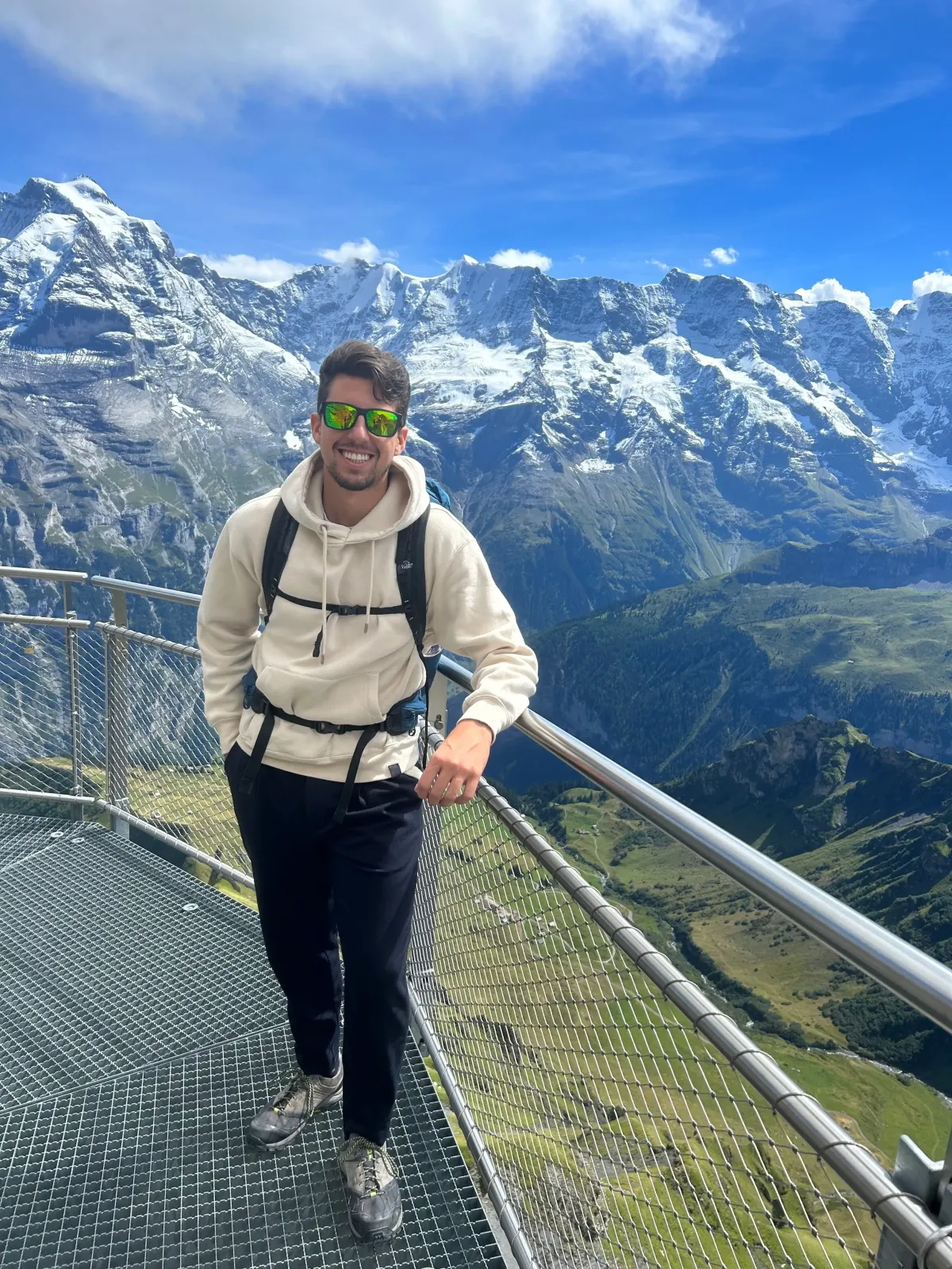
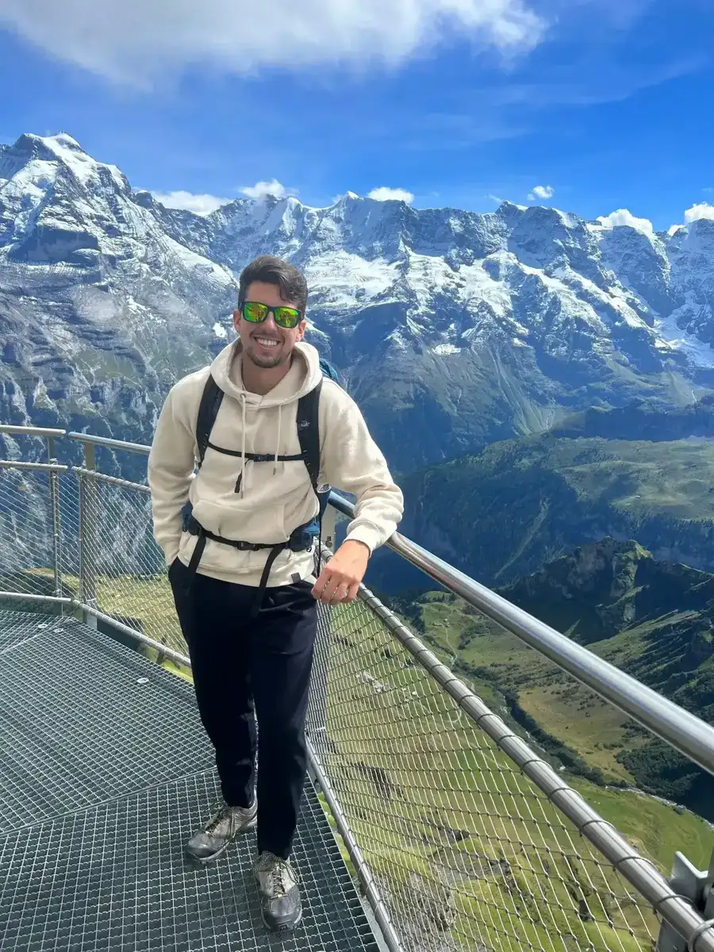
Compress gallery images, add lightbox error handling, expand keywords
Recompress 16 WebP gallery images to q65 (all now under 200KB),
delete 2 orphan duplicates. Add onerror handler for broken lightbox
images with style reset on navigation. Replace niche technical
keywords with recruiter-search job titles (engineering manager,
technical program manager).

diff --git a/assets/js/main.min.js b/assets/js/main.min.js
@@ -1,1 +1,1 @@
-(()=>{function S(){var t=document.querySelector(".nav-toggle"),e=document.querySelector(".site-nav");if(!t||!e)return;t.addEventListener("click",function(){var a=e.classList.toggle("is-open");t.setAttribute("aria-expanded",String(a)),t.classList.toggle("close",a),document.body.classList.toggle("overflow--hidden",a)});function n(){e.classList.remove("is-open"),t.setAttribute("aria-expanded","false"),t.classList.remove("close"),document.body.classList.remove("overflow--hidden")}var o=e.querySelectorAll(".nav-links a");o.forEach(function(a){a.addEventListener("click",n)});var i=window.matchMedia("(min-width: 768px)");i.addEventListener?i.addEventListener("change",function(){i.matches&&n()}):i.addListener&&i.addListener(function(){i.matches&&n()}),document.addEventListener("keydown",function(a){a.key==="Escape"&&e.classList.contains("is-open")&&(n(),t.focus())})}function k(){let t=window.location.pathname;document.querySelectorAll(".nav-links a").forEach(n=>{n.classList.remove("active");let o=new URL(n.href).pathname;(t===o||o!=="/"&&t.startsWith(o))&&n.classList.add("active")})}function x(t){var e=document.getElementById("sr-announcer");e&&(e.textContent=t,setTimeout(function(){e.textContent=""},1e3))}function E(){let t=document.querySelector(".theme-toggle");if(!t)return;let e=i=>{document.querySelectorAll(".theme-img").forEach(a=>{a.src=a.getAttribute("data-"+i)||a.src})},n=i=>{document.documentElement.setAttribute("data-theme",i),localStorage.setItem("theme",i),e(i)};t.addEventListener("click",()=>{let a=document.documentElement.getAttribute("data-theme")==="dark"?"light":"dark";n(a),x(a==="dark"?"Dark mode enabled":"Light mode enabled")}),window.matchMedia("(prefers-color-scheme: dark)").addEventListener("change",i=>{localStorage.getItem("theme")||n(i.matches?"dark":"light")});let o=document.documentElement.getAttribute("data-theme")||"light";e(o)}function T(){let t=document.querySelector(".lang-toggle");if(!t)return;let e=n=>{document.documentElement.setAttribute("data-lang",n),document.documentElement.setAttribute("lang",n),localStorage.setItem("lang",n)};t.addEventListener("click",()=>{let o=document.documentElement.getAttribute("data-lang")==="en"?"es":"en";e(o),x(o==="es"?"Idioma cambiado a espa\xF1ol":"Language changed to English")})}function _(){var t=document.querySelector(".color-toggle"),e=document.querySelector(".color-picker");if(!t||!e)return;function n(s){s=s.replace("#","");var d=parseInt(s.substring(0,2),16),r=parseInt(s.substring(2,4),16),l=parseInt(s.substring(4,6),16);return d+", "+r+", "+l}function o(s,d){var r=document.documentElement;r.style.setProperty("--color-primary",s),r.style.setProperty("--color-accent",d),r.style.setProperty("--color-primary-rgb",n(s)),r.style.setProperty("--color-accent-rgb",n(d)),r.style.setProperty("--gradient-primary","linear-gradient(135deg, "+s+", "+d+")"),r.style.setProperty("--gradient-subtle","linear-gradient(135deg, "+s+"14, "+d+"14)")}function i(){e.classList.add("is-open"),t.setAttribute("aria-expanded","true");var s=e.querySelector('[aria-checked="true"]')||c[0];s&&s.focus()}function a(){e.classList.remove("is-open"),t.setAttribute("aria-expanded","false")}t.addEventListener("click",function(s){s.stopPropagation(),e.classList.contains("is-open")?a():i()}),document.addEventListener("click",function(s){!e.contains(s.target)&&s.target!==t&&a()}),document.addEventListener("keydown",function(s){s.key==="Escape"&&e.classList.contains("is-open")&&(a(),t.focus())});var c=e.querySelectorAll(".color-swatch");function u(s){var d=s.getAttribute("data-primary"),r=s.getAttribute("data-accent");c.forEach(function(l){l.classList.remove("is-active"),l.setAttribute("aria-checked","false"),l.setAttribute("tabindex","-1")}),s.classList.add("is-active"),s.setAttribute("aria-checked","true"),s.setAttribute("tabindex","0"),o(d,r),localStorage.setItem("accent-colors",JSON.stringify({primary:d,accent:r})),x("Accent color changed to "+s.getAttribute("aria-label")),a()}c.forEach(function(s,d){s.addEventListener("click",function(){u(this)}),s.addEventListener("keydown",function(r){var l;if(r.key==="ArrowRight"||r.key==="ArrowDown")r.preventDefault(),l=(d+1)%c.length;else if(r.key==="ArrowLeft"||r.key==="ArrowUp")r.preventDefault(),l=(d-1+c.length)%c.length;else if(r.key==="Enter"||r.key===" "){r.preventDefault(),u(this);return}else return;c[d].setAttribute("tabindex","-1"),c[l].setAttribute("tabindex","0"),c[l].focus()})});var m=localStorage.getItem("accent-colors");if(m)try{var f=JSON.parse(m);o(f.primary,f.accent),c.forEach(function(s){s.getAttribute("data-primary")===f.primary&&s.getAttribute("data-accent")===f.accent&&s.classList.add("is-active")})}catch{}}function A(){var t=document.querySelectorAll('a[href$=".jpg"], a[href$=".jpeg"], a[href$=".JPG"], a[href$=".png"], a[href$=".gif"], a[href$=".webp"]');if(t.length===0)return;var e=0,n=Array.from(t),o=document.querySelector(".image-lightbox");if(!o){o=document.createElement("dialog"),o.className="image-lightbox",o.innerHTML='<button class="lightbox-prev" aria-label="Previous image">&#8249;</button><img src="" alt="Lightbox image"><button class="lightbox-next" aria-label="Next image">&#8250;</button><button class="lightbox-close" aria-label="Close">&times;</button><div class="lightbox-counter"></div>',document.body.appendChild(o);var i=document.createElement("style");i.textContent=".image-lightbox { border: none; padding: 0; background: rgba(0,0,0,0.9); max-width: 95vw; max-height: 95vh; position: relative; }.image-lightbox::backdrop { background: rgba(0,0,0,0.8); }.image-lightbox img { max-width: 90vw; max-height: 90vh; object-fit: contain; display: block; }.image-lightbox .lightbox-close { position: absolute; top: 10px; right: 10px; background: rgba(255,255,255,0.9); border: none; border-radius: 50%; width: 40px; height: 40px; font-size: 24px; cursor: pointer; line-height: 1; }.image-lightbox .lightbox-close:hover { background: #fff; }.image-lightbox .lightbox-prev, .image-lightbox .lightbox-next { position: absolute; top: 50%; transform: translateY(-50%); background: rgba(255,255,255,0.8); border: none; border-radius: 50%; width: 40px; height: 40px; font-size: 28px; cursor: pointer; line-height: 1; display: flex; align-items: center; justify-content: center; transition: background 0.2s; }.image-lightbox .lightbox-prev:hover, .image-lightbox .lightbox-next:hover { background: #fff; }.image-lightbox .lightbox-prev { left: 10px; }.image-lightbox .lightbox-next { right: 10px; }.image-lightbox .lightbox-prev[hidden], .image-lightbox .lightbox-next[hidden] { display: none; }.image-lightbox .lightbox-counter { position: absolute; bottom: 10px; left: 50%; transform: translateX(-50%); color: rgba(255,255,255,0.7); font-size: 0.85rem; }",document.head.appendChild(i),o.querySelector(".lightbox-close").addEventListener("click",function(){o.close()}),o.addEventListener("click",function(r){r.target===o&&o.close()})}var a=o.querySelector("img"),c=o.querySelector(".lightbox-prev"),u=o.querySelector(".lightbox-next"),m=o.querySelector(".lightbox-counter");function f(r){e=r,a.src=n[r].href;var l=n.length>1;c.hidden=!l,u.hidden=!l,m.textContent=l?r+1+" / "+n.length:""}function s(){f((e-1+n.length)%n.length)}function d(){f((e+1)%n.length)}c.addEventListener("click",function(r){r.stopPropagation(),s()}),u.addEventListener("click",function(r){r.stopPropagation(),d()}),o.addEventListener("keydown",function(r){r.key==="ArrowLeft"?(r.preventDefault(),s()):r.key==="ArrowRight"&&(r.preventDefault(),d())}),n.forEach(function(r,l){r.addEventListener("click",function(h){h.preventDefault(),f(l),o.showModal()})})}function q(){if(window.matchMedia("(prefers-reduced-motion: reduce)").matches)return;let t={threshold:.1,rootMargin:"0px 0px -50px 0px"},e=new IntersectionObserver(i=>{i.forEach(a=>{a.isIntersecting&&(a.target.classList.add("is-visible"),e.unobserve(a.target))})},t),n=document.querySelectorAll(".archive__item, .page__content > h2, .page__content > h3, .page__content > p, .page__content > ul, .page__content > ol, .author__urls li, .feature__item, .cert-card, .contact-card, .career-timeline__milestone, .cv-timeline-item, .cv-edu-card, .cv-skill-tag, .github-stats > a"),o=new Map;n.forEach(i=>{if(i.classList.contains("reveal")||i.classList.contains("reveal--left")||i.classList.contains("reveal--right")){e.observe(i);return}var a=i.matches(".cert-card, .contact-card, .career-timeline__milestone, .archive__item, .cv-edu-card, .cv-timeline-item");if(a&&i.parentElement){var c=i.parentElement,u=o.get(c)||0;o.set(c,u+1),i.style.transitionDelay=u*.08+"s",u%2===0?i.classList.add("reveal--left"):i.classList.add("reveal--right")}else if(i.classList.add("reveal"),i.matches(".author__urls li, .cv-skill-tag")){var m=i.parentElement?Array.from(i.parentElement.children):[],f=m.indexOf(i);i.style.transitionDelay=f*.05+"s"}e.observe(i)})}function O(){let t=document.querySelector(".scroll-progress"),e=document.querySelector(".masthead");if(!t)return;let n=!1,o=()=>{let i=window.scrollY,a=document.documentElement.scrollHeight-window.innerHeight,c=a>0?i/a*100:0;t.style.width=`${c}%`,e&&e.classList.toggle("is-scrolled",i>10),n=!1};window.addEventListener("scroll",()=>{n||(requestAnimationFrame(o),n=!0)},{passive:!0}),o()}function C(){var t=document.querySelector(".scroll-to-top");if(t){var e=300,n=!1,o=function(){window.scrollY>e?t.classList.add("is-visible"):t.classList.remove("is-visible"),n=!1};window.addEventListener("scroll",function(){n||(requestAnimationFrame(o),n=!0)},{passive:!0}),t.addEventListener("click",function(){window.scrollTo({top:0,behavior:"smooth"})}),o()}}function I(){var t=document.querySelector(".floating-cta");if(t){var e=600,n=!1,o=!1,i=document.querySelector(".page__footer");if(i){var a=new IntersectionObserver(function(u){o=u[0].isIntersecting,c()},{threshold:.1});a.observe(i)}var c=function(){window.scrollY>e&&window.innerWidth<925&&!o?t.classList.add("is-visible"):t.classList.remove("is-visible"),n=!1};window.addEventListener("scroll",function(){n||(requestAnimationFrame(c),n=!0)},{passive:!0}),window.addEventListener("resize",function(){n||(requestAnimationFrame(c),n=!0)},{passive:!0}),c()}}function P(){let t=document.querySelector(".author__urls-wrapper"),e=document.querySelector(".author__urls"),n=document.querySelector(".author__urls-wrapper button"),o=()=>{if(!e)return;let i=n!==null,a=i&&n.offsetParent!==null;!i||i&&!a?e.style.display="":e.style.display="none"};o(),window.addEventListener("resize",o),n&&e&&n.addEventListener("click",function(){let i=e.style.display==="none"||getComputedStyle(e).display==="none";e.style.display=i?"block":"none",this.classList.toggle("open"),this.setAttribute("aria-expanded",String(i))}),D()}var H=925,g={STICK_TOP:"STICK_TOP",STICK_BOTTOM:"STICK_BOTTOM",FLOAT:"FLOAT"};function D(){let t=document.querySelector(".sidebar.sticky");if(!t)return;let e=document.getElementById("swup-sidebar");if(!e)return;let n=g.STICK_TOP,o=window.scrollY,i=!1,a=0,c=new AbortController,{signal:u}=c;e._stickyAbort&&e._stickyAbort.abort(),e._stickyAbort=c;function m(){let h=document.querySelector(".masthead");return h?h.offsetHeight:0}function f(){return Math.max(t.getBoundingClientRect().height,t.offsetHeight,t.scrollHeight)}function s(){return document.documentElement.clientHeight-f()}function d(){if(i=!1,window.innerWidth<H){t.style.position="",t.style.top="";return}let h=document.documentElement.clientHeight,p=m();if(f()<=h-p){t.style.position="",t.style.top="",n=g.STICK_TOP;return}let b=window.scrollY,w=b>o,y=t.getBoundingClientRect();switch(n){case g.STICK_TOP:w&&(a=y.top-e.getBoundingClientRect().top,t.style.position="relative",t.style.top=a+"px",n=g.FLOAT);break;case g.STICK_BOTTOM:t.style.top=s()+"px",w||(a=y.top-e.getBoundingClientRect().top,t.style.position="relative",t.style.top=a+"px",n=g.FLOAT);break;case g.FLOAT:w?y.bottom<=h&&(t.style.position="sticky",t.style.top=s()+"px",n=g.STICK_BOTTOM):y.top>=p&&(t.style.position="sticky",t.style.top=p+"px",n=g.STICK_TOP);break}o=b}function r(){i||(requestAnimationFrame(d),i=!0)}function l(){n=g.STICK_TOP,t.style.position="",t.style.top="",o=window.scrollY}window.addEventListener("scroll",r,{signal:u,passive:!0}),window.addEventListener("resize",l,{signal:u}),document.fonts.ready.then(()=>{n===g.STICK_BOTTOM&&(t.style.top=s()+"px")})}function M(){var t=document.querySelector(".search-toggle"),e=document.querySelector(".search-overlay");if(!t||!e)return;var n=e.querySelector(".search-overlay__input"),o=e.querySelector(".search-overlay__results"),i=e.querySelector(".search-overlay__close"),a=null;function c(){e.hidden=!1,document.body.classList.add("overflow--hidden"),n.value="",o.innerHTML="",setTimeout(function(){n.focus()},50),m()}function u(){e.hidden=!0,document.body.classList.remove("overflow--hidden"),t.focus()}function m(){a||fetch("/search.json").then(function(r){return r.json()}).then(function(r){a=r}).catch(function(){a=[]})}function f(r){if(!a||!r){o.innerHTML="";return}var l=r.toLowerCase().split(/\s+/).filter(Boolean),h=a.filter(function(p){var v=(p.title+" "+p.excerpt).toLowerCase();return l.every(function(b){return v.indexOf(b)!==-1})});if(h.length===0){o.innerHTML='<div class="search-no-results">No results found.</div>';return}o.innerHTML=h.slice(0,10).map(function(p){var v=p.excerpt||"";return v.length>120&&(v=v.substring(0,120)+"..."),'<a class="search-result" href="'+encodeURI(p.url)+'"><div class="search-result__title">'+s(p.title)+"</div>"+(v?'<div class="search-result__excerpt">'+s(v)+"</div>":"")+"</a>"}).join("")}function s(r){var l=document.createElement("div");return l.textContent=r,l.innerHTML}var d;n.addEventListener("input",function(){clearTimeout(d);var r=n.value.trim();d=setTimeout(function(){f(r)},200)}),t.addEventListener("click",c),i.addEventListener("click",u),e.addEventListener("click",function(r){r.target===e&&u()}),document.addEventListener("keydown",function(r){r.key==="Escape"&&!e.hidden&&u(),(r.ctrlKey||r.metaKey)&&r.key==="k"&&(r.preventDefault(),e.hidden?c():u())})}function B(){var t=document.querySelector(".offline-banner");if(!t)return;function e(){navigator.onLine?t.hidden=!0:t.hidden=!1}window.addEventListener("online",e),window.addEventListener("offline",e),e()}document.addEventListener("DOMContentLoaded",function(){if(S(),E(),T(),_(),B(),M(),L(),typeof Swup<"u"){var t=new Swup({containers:["#swup-sidebar","#swup-content"],animationSelector:'[class*="swup-transition-"]',cache:!0,animateHistoryBrowsing:!0});t.hooks.on("visit:start",function(){var e=document.querySelector(".scroll-progress");e&&(e.classList.add("progress-bar--loading"),e.style.width="80%")}),t.hooks.on("content:replace",function(){var e=document.querySelector(".scroll-progress");e&&(e.style.width="100%",setTimeout(function(){e.classList.remove("progress-bar--loading"),e.style.width="0%"},300))}),t.hooks.on("page:view",function(){L();var e=document.getElementById("main");e&&(e.setAttribute("tabindex","-1"),e.focus({preventScroll:!0}))})}});document.documentElement.style.scrollBehavior="smooth";function L(){let t=document.querySelector(".page__footer");if(t){let e=()=>{document.body.style.marginBottom=t.offsetHeight+"px"};e(),typeof ResizeObserver<"u"?new ResizeObserver(e).observe(t):window.addEventListener("resize",e)}P(),A(),q(),O(),k(),C(),I(),window.scrollTo(0,0)}window.initPageFeatures=L;})();
+(()=>{function C(){var t=document.querySelector(".nav-toggle"),e=document.querySelector(".site-nav");if(!t||!e)return;t.addEventListener("click",function(){var a=e.classList.toggle("is-open");t.setAttribute("aria-expanded",String(a)),t.classList.toggle("close",a),document.body.classList.toggle("overflow--hidden",a)});function i(){e.classList.remove("is-open"),t.setAttribute("aria-expanded","false"),t.classList.remove("close"),document.body.classList.remove("overflow--hidden")}var n=e.querySelectorAll(".nav-links a");n.forEach(function(a){a.addEventListener("click",i)});var s=window.matchMedia("(min-width: 768px)");s.addEventListener?s.addEventListener("change",function(){s.matches&&i()}):s.addListener&&s.addListener(function(){s.matches&&i()}),document.addEventListener("keydown",function(a){a.key==="Escape"&&e.classList.contains("is-open")&&(i(),t.focus())})}function I(){let t=window.location.pathname;document.querySelectorAll(".nav-links a").forEach(i=>{i.classList.remove("active");let n=new URL(i.href).pathname;(t===n||n!=="/"&&t.startsWith(n))&&i.classList.add("active")})}var _=null;function T(t){var e=document.getElementById("sr-announcer");e&&(_&&clearTimeout(_),e.textContent=t,_=setTimeout(function(){e.textContent=""},1e3))}function O(){let t=document.querySelector(".theme-toggle");if(!t)return;let e=s=>{document.querySelectorAll(".theme-img").forEach(a=>{a.src=a.getAttribute("data-"+s)||a.src})},i=s=>{document.documentElement.setAttribute("data-theme",s),localStorage.setItem("theme",s),e(s)};t.addEventListener("click",()=>{let a=document.documentElement.getAttribute("data-theme")==="dark"?"light":"dark";i(a),T(a==="dark"?"Dark mode enabled":"Light mode enabled")}),window.matchMedia("(prefers-color-scheme: dark)").addEventListener("change",s=>{localStorage.getItem("theme")||i(s.matches?"dark":"light")});let n=document.documentElement.getAttribute("data-theme")||"light";e(n)}function P(){let t=document.querySelector(".lang-toggle");if(!t)return;let e=i=>{document.documentElement.setAttribute("data-lang",i),document.documentElement.setAttribute("lang",i),localStorage.setItem("lang",i)};t.addEventListener("click",()=>{let n=document.documentElement.getAttribute("data-lang")==="en"?"es":"en";e(n),T(n==="es"?"Idioma cambiado a espa\xF1ol":"Language changed to English")})}function B(){var t=document.querySelector(".color-toggle"),e=document.querySelector(".color-picker");if(!t||!e)return;function i(o){o=o.replace("#","");var l=parseInt(o.substring(0,2),16),r=parseInt(o.substring(2,4),16),d=parseInt(o.substring(4,6),16);return l+", "+r+", "+d}function n(o,l){var r=document.documentElement;r.style.setProperty("--color-primary",o),r.style.setProperty("--color-accent",l),r.style.setProperty("--color-primary-rgb",i(o)),r.style.setProperty("--color-accent-rgb",i(l)),r.style.setProperty("--gradient-primary","linear-gradient(135deg, "+o+", "+l+")"),r.style.setProperty("--gradient-subtle","linear-gradient(135deg, "+o+"14, "+l+"14)")}function s(){e.classList.add("is-open"),t.setAttribute("aria-expanded","true");var o=e.querySelector('[aria-checked="true"]')||c[0];o&&o.focus()}function a(){e.classList.remove("is-open"),t.setAttribute("aria-expanded","false")}t.addEventListener("click",function(o){o.stopPropagation(),e.classList.contains("is-open")?a():s()}),document.addEventListener("click",function(o){!e.contains(o.target)&&o.target!==t&&a()}),document.addEventListener("keydown",function(o){o.key==="Escape"&&e.classList.contains("is-open")&&(a(),t.focus())});var c=e.querySelectorAll(".color-swatch");function u(o){var l=o.getAttribute("data-primary"),r=o.getAttribute("data-accent");c.forEach(function(d){d.classList.remove("is-active"),d.setAttribute("aria-checked","false"),d.setAttribute("tabindex","-1")}),o.classList.add("is-active"),o.setAttribute("aria-checked","true"),o.setAttribute("tabindex","0"),n(l,r),localStorage.setItem("accent-colors",JSON.stringify({primary:l,accent:r})),T("Accent color changed to "+o.getAttribute("aria-label")),a()}c.forEach(function(o,l){o.addEventListener("click",function(){u(this)}),o.addEventListener("keydown",function(r){var d;if(r.key==="ArrowRight"||r.key==="ArrowDown")r.preventDefault(),d=(l+1)%c.length;else if(r.key==="ArrowLeft"||r.key==="ArrowUp")r.preventDefault(),d=(l-1+c.length)%c.length;else if(r.key==="Enter"||r.key===" "){r.preventDefault(),u(this);return}else return;c[l].setAttribute("tabindex","-1"),c[d].setAttribute("tabindex","0"),c[d].focus()})});var m=localStorage.getItem("accent-colors");if(m)try{var f=JSON.parse(m);n(f.primary,f.accent),c.forEach(function(o){o.getAttribute("data-primary")===f.primary&&o.getAttribute("data-accent")===f.accent&&o.classList.add("is-active")})}catch{}}var y,x;function H(){var t=document.querySelectorAll('a[href$=".jpg"], a[href$=".jpeg"], a[href$=".JPG"], a[href$=".png"], a[href$=".gif"], a[href$=".webp"]');if(t.length===0)return;var e=0,i=Array.from(t),n=document.querySelector(".image-lightbox");if(!n){n=document.createElement("dialog"),n.className="image-lightbox",n.innerHTML='<button class="lightbox-prev" aria-label="Previous image">&#8249;</button><img src="" alt="Lightbox image"><button class="lightbox-next" aria-label="Next image">&#8250;</button><button class="lightbox-close" aria-label="Close">&times;</button><div class="lightbox-counter"></div>',document.body.appendChild(n),n.querySelector("img").addEventListener("error",function(){this.alt="Image could not be loaded",this.style.minWidth="300px",this.style.minHeight="200px",this.style.display="flex",this.style.alignItems="center",this.style.background="rgba(255,255,255,0.1)"});var s=document.createElement("style");s.textContent=".image-lightbox { border: none; padding: 0; background: rgba(0,0,0,0.9); max-width: 95vw; max-height: 95vh; position: relative; }.image-lightbox::backdrop { background: rgba(0,0,0,0.8); }.image-lightbox img { max-width: 90vw; max-height: 90vh; object-fit: contain; display: block; }.image-lightbox .lightbox-close { position: absolute; top: 10px; right: 10px; background: rgba(255,255,255,0.9); border: none; border-radius: 50%; width: 40px; height: 40px; font-size: 24px; cursor: pointer; line-height: 1; }.image-lightbox .lightbox-close:hover { background: #fff; }.image-lightbox .lightbox-prev, .image-lightbox .lightbox-next { position: absolute; top: 50%; transform: translateY(-50%); background: rgba(255,255,255,0.8); border: none; border-radius: 50%; width: 40px; height: 40px; font-size: 28px; cursor: pointer; line-height: 1; display: flex; align-items: center; justify-content: center; transition: background 0.2s; }.image-lightbox .lightbox-prev:hover, .image-lightbox .lightbox-next:hover { background: #fff; }.image-lightbox .lightbox-prev { left: 10px; }.image-lightbox .lightbox-next { right: 10px; }.image-lightbox .lightbox-prev[hidden], .image-lightbox .lightbox-next[hidden] { display: none; }.image-lightbox .lightbox-counter { position: absolute; bottom: 10px; left: 50%; transform: translateX(-50%); color: rgba(255,255,255,0.7); font-size: 0.85rem; }",document.head.appendChild(s),n.querySelector(".lightbox-close").addEventListener("click",function(){n.close()}),n.addEventListener("click",function(r){r.target===n&&n.close()});var c=n.querySelector(".lightbox-prev"),u=n.querySelector(".lightbox-next");c.addEventListener("click",function(r){r.stopPropagation(),y&&y()}),u.addEventListener("click",function(r){r.stopPropagation(),x&&x()}),n.addEventListener("keydown",function(r){r.key==="ArrowLeft"?(r.preventDefault(),y&&y()):r.key==="ArrowRight"&&(r.preventDefault(),x&&x())})}var a=n.querySelector("img"),c=n.querySelector(".lightbox-prev"),u=n.querySelector(".lightbox-next"),m=n.querySelector(".lightbox-counter");function f(o){e=o,a.style.minWidth="",a.style.minHeight="",a.style.background="",a.src=i[o].href;var l=i[o].querySelector("img");a.alt=l&&l.alt?l.alt:"Image "+(o+1);var r=i.length>1;c.hidden=!r,u.hidden=!r,m.textContent=r?o+1+" / "+i.length:""}y=function(){f((e-1+i.length)%i.length)},x=function(){f((e+1)%i.length)},i.forEach(function(o,l){o.addEventListener("click",function(r){r.preventDefault(),f(l),n.showModal()})})}var b=null,L=null,w=null;function M(){if(b&&(b.disconnect(),b=null),window.matchMedia("(prefers-reduced-motion: reduce)").matches)return;var t={threshold:.1,rootMargin:"0px 0px -50px 0px"};b=new IntersectionObserver(function(n){n.forEach(function(s){s.isIntersecting&&(s.target.classList.add("is-visible"),b.unobserve(s.target))})},t);let e=document.querySelectorAll(".archive__item, .page__content > h2, .page__content > h3, .page__content > p, .page__content > ul, .page__content > ol, .author__urls li, .feature__item, .cert-card, .contact-card, .career-timeline__milestone, .cv-timeline-item, .cv-edu-card, .cv-skill-tag, .github-stats > a"),i=new Map;e.forEach(n=>{if(n.classList.contains("reveal")||n.classList.contains("reveal--left")||n.classList.contains("reveal--right")){b.observe(n);return}var s=n.matches(".cert-card, .contact-card, .career-timeline__milestone, .archive__item, .cv-edu-card, .cv-timeline-item");if(s&&n.parentElement){var a=n.parentElement,c=i.get(a)||0;i.set(a,c+1),n.style.transitionDelay=c*.08+"s",c%2===0?n.classList.add("reveal--left"):n.classList.add("reveal--right")}else if(n.classList.add("reveal"),n.matches(".author__urls li, .cv-skill-tag")){var u=n.parentElement?Array.from(n.parentElement.children):[],m=u.indexOf(n);n.style.transitionDelay=m*.05+"s"}revealOnScroll.observe(n)})}function R(){let t=document.querySelector(".scroll-progress"),e=document.querySelector(".masthead");if(!t)return;let i=!1,n=()=>{let s=window.scrollY,a=document.documentElement.scrollHeight-window.innerHeight,c=a>0?s/a*100:0;t.style.width=`${c}%`,e&&e.classList.toggle("is-scrolled",s>10),i=!1};window.addEventListener("scroll",()=>{i||(requestAnimationFrame(n),i=!0)},{passive:!0}),n()}function D(){var t=document.querySelector(".scroll-to-top");if(t){var e=300,i=!1,n=function(){window.scrollY>e?t.classList.add("is-visible"):t.classList.remove("is-visible"),i=!1};window.addEventListener("scroll",function(){i||(requestAnimationFrame(n),i=!0)},{passive:!0}),t.addEventListener("click",function(){window.scrollTo({top:0,behavior:"smooth"})}),n()}}function K(){L&&(L.disconnect(),L=null),w&&(w.abort(),w=null);var t=document.querySelector(".floating-cta");if(t){w=new AbortController;var e=w.signal,i=600,n=!1,s=!1,a=document.querySelector(".page__footer");a&&(L=new IntersectionObserver(function(u){s=u[0].isIntersecting,c()},{threshold:.1}),L.observe(a));var c=function(){window.scrollY>i&&window.innerWidth<925&&!s?t.classList.add("is-visible"):t.classList.remove("is-visible"),n=!1};window.addEventListener("scroll",function(){n||(requestAnimationFrame(c),n=!0)},{passive:!0,signal:e}),window.addEventListener("resize",function(){n||(requestAnimationFrame(c),n=!0)},{passive:!0,signal:e}),c()}}function F(){let t=document.querySelector(".author__urls-wrapper"),e=document.querySelector(".author__urls"),i=document.querySelector(".author__urls-wrapper button"),n=()=>{if(!e)return;let s=i!==null,a=s&&i.offsetParent!==null;!s||s&&!a?e.style.display="":e.style.display="none"};n(),window.addEventListener("resize",n),i&&e&&i.addEventListener("click",function(){let s=e.style.display==="none"||getComputedStyle(e).display==="none";e.style.display=s?"block":"none",this.classList.toggle("open"),this.setAttribute("aria-expanded",String(s))}),j()}var Y=925,g={STICK_TOP:"STICK_TOP",STICK_BOTTOM:"STICK_BOTTOM",FLOAT:"FLOAT"};function j(){let t=document.querySelector(".sidebar.sticky");if(!t)return;let e=document.getElementById("swup-sidebar");if(!e)return;let i=g.STICK_TOP,n=window.scrollY,s=!1,a=0,c=new AbortController,{signal:u}=c;e._stickyAbort&&e._stickyAbort.abort(),e._stickyAbort=c;function m(){let v=document.querySelector(".masthead");return v?v.offsetHeight:0}function f(){return Math.max(t.getBoundingClientRect().height,t.offsetHeight,t.scrollHeight)}function o(){return document.documentElement.clientHeight-f()}function l(){if(s=!1,window.innerWidth<Y){t.style.position="",t.style.top="";return}let v=document.documentElement.clientHeight,h=m();if(f()<=v-h){t.style.position="",t.style.top="",i=g.STICK_TOP;return}let k=window.scrollY,A=k>n,E=t.getBoundingClientRect();switch(i){case g.STICK_TOP:A&&(a=E.top-e.getBoundingClientRect().top,t.style.position="relative",t.style.top=a+"px",i=g.FLOAT);break;case g.STICK_BOTTOM:t.style.top=o()+"px",A||(a=E.top-e.getBoundingClientRect().top,t.style.position="relative",t.style.top=a+"px",i=g.FLOAT);break;case g.FLOAT:A?E.bottom<=v&&(t.style.position="sticky",t.style.top=o()+"px",i=g.STICK_BOTTOM):E.top>=h&&(t.style.position="sticky",t.style.top=h+"px",i=g.STICK_TOP);break}n=k}function r(){s||(requestAnimationFrame(l),s=!0)}function d(){i=g.STICK_TOP,t.style.position="",t.style.top="",n=window.scrollY}window.addEventListener("scroll",r,{signal:u,passive:!0}),window.addEventListener("resize",d,{signal:u}),document.fonts.ready.then(()=>{i===g.STICK_BOTTOM&&(t.style.top=o()+"px")})}function N(){var t=document.querySelector(".search-toggle"),e=document.querySelector(".search-overlay");if(!t||!e)return;var i=e.querySelector(".search-overlay__input"),n=e.querySelector(".search-overlay__results"),s=e.querySelector(".search-overlay__close"),a=null;function c(){e.hidden=!1,document.body.classList.add("overflow--hidden"),i.value="",n.innerHTML="",setTimeout(function(){i.focus()},50),m()}function u(){e.hidden=!0,document.body.classList.remove("overflow--hidden"),t.focus()}function m(){a||fetch("/search.json").then(function(r){return r.json()}).then(function(r){a=r}).catch(function(){a=[]})}function f(r){if(!a||!r){n.innerHTML="";return}var d=r.toLowerCase().split(/\s+/).filter(Boolean),v=a.filter(function(h){var p=(h.title+" "+h.excerpt).toLowerCase();return d.every(function(k){return p.indexOf(k)!==-1})});if(v.length===0){n.innerHTML='<div class="search-no-results">No results found.</div>';return}n.innerHTML=v.slice(0,10).map(function(h){var p=h.excerpt||"";return p.length>120&&(p=p.substring(0,120)+"..."),'<a class="search-result" href="'+encodeURI(h.url)+'"><div class="search-result__title">'+o(h.title)+"</div>"+(p?'<div class="search-result__excerpt">'+o(p)+"</div>":"")+"</a>"}).join("")}function o(r){var d=document.createElement("div");return d.textContent=r,d.innerHTML}var l;i.addEventListener("input",function(){clearTimeout(l);var r=i.value.trim();l=setTimeout(function(){f(r)},200)}),t.addEventListener("click",c),s.addEventListener("click",u),e.addEventListener("click",function(r){r.target===e&&u()}),document.addEventListener("keydown",function(r){r.key==="Escape"&&!e.hidden&&u(),(r.ctrlKey||r.metaKey)&&r.key==="k"&&(r.preventDefault(),e.hidden?c():u())})}function z(){var t=document.querySelector(".offline-banner");if(!t)return;function e(){navigator.onLine?t.hidden=!0:t.hidden=!1}window.addEventListener("online",e),window.addEventListener("offline",e),e()}var S=null;document.addEventListener("DOMContentLoaded",function(){if(C(),O(),P(),B(),z(),N(),q(),typeof Swup<"u"){var t=new Swup({containers:["#swup-sidebar","#swup-content"],animationSelector:'[class*="swup-transition-"]',cache:!0,animateHistoryBrowsing:!0});t.hooks.on("visit:start",function(){var e=document.querySelector(".scroll-progress");e&&(e.classList.add("progress-bar--loading"),e.style.width="80%")}),t.hooks.on("content:replace",function(){var e=document.querySelector(".scroll-progress");e&&(e.style.width="100%",setTimeout(function(){e.classList.remove("progress-bar--loading"),e.style.width="0%"},300))}),t.hooks.on("page:view",function(){q();var e=document.getElementById("main");e&&(e.setAttribute("tabindex","-1"),e.focus({preventScroll:!0}))})}});document.documentElement.style.scrollBehavior="smooth";function q(){S&&(S.disconnect(),S=null);var t=document.querySelector(".page__footer");if(t){var e=function(){document.body.style.marginBottom=t.offsetHeight+"px"};e(),typeof ResizeObserver<"u"&&(S=new ResizeObserver(e),S.observe(t))}F(),H(),M(),R(),I(),D(),K(),window.scrollTo(0,0)}window.initPageFeatures=q;})();

diff --git a/assets/js/modules/lightbox.js b/assets/js/modules/lightbox.js
@@ -2,6 +2,8 @@
    Image Lightbox with Keyboard Navigation
    ========================================================================== */
 
+var showPrev, showNext;
+
 export function initLightbox() {
   var imageLinks = document.querySelectorAll(
     'a[href$=".jpg"], a[href$=".jpeg"], a[href$=".JPG"], a[href$=".png"], a[href$=".gif"], a[href$=".webp"]'
@@ -25,6 +27,16 @@ export function initLightbox() {
       '<div class="lightbox-counter"></div>';
     document.body.appendChild(dialog);
 
+    // Handle broken images
+    dialog.querySelector('img').addEventListener('error', function() {
+      this.alt = 'Image could not be loaded';
+      this.style.minWidth = '300px';
+      this.style.minHeight = '200px';
+      this.style.display = 'flex';
+      this.style.alignItems = 'center';
+      this.style.background = 'rgba(255,255,255,0.1)';
+    });
+
     // Add lightbox styles once
     var style = document.createElement('style');
     style.textContent =
@@ -46,6 +58,17 @@ export function initLightbox() {
     dialog.addEventListener('click', function(e) {
       if (e.target === dialog) dialog.close();
     });
+
+    // Nav and keyboard handlers (only bind once, use module-level refs)
+    var prevBtn = dialog.querySelector('.lightbox-prev');
+    var nextBtn = dialog.querySelector('.lightbox-next');
+    prevBtn.addEventListener('click', function(e) { e.stopPropagation(); if (showPrev) showPrev(); });
+    nextBtn.addEventListener('click', function(e) { e.stopPropagation(); if (showNext) showNext(); });
+
+    dialog.addEventListener('keydown', function(e) {
+      if (e.key === 'ArrowLeft') { e.preventDefault(); if (showPrev) showPrev(); }
+      else if (e.key === 'ArrowRight') { e.preventDefault(); if (showNext) showNext(); }
+    });
   }
 
   var lightboxImg = dialog.querySelector('img');
@@ -55,7 +78,14 @@ export function initLightbox() {
 
   function showImage(index) {
     currentIndex = index;
+    // Reset error styles from previous failed loads
+    lightboxImg.style.minWidth = '';
+    lightboxImg.style.minHeight = '';
+    lightboxImg.style.background = '';
     lightboxImg.src = images[index].href;
+    // Dynamic alt text from source image
+    var sourceImg = images[index].querySelector('img');
+    lightboxImg.alt = (sourceImg && sourceImg.alt) ? sourceImg.alt : 'Image ' + (index + 1);
     // Update nav button visibility
     var hasMultiple = images.length > 1;
     prevBtn.hidden = !hasMultiple;
@@ -64,22 +94,13 @@ export function initLightbox() {
     counter.textContent = hasMultiple ? (index + 1) + ' / ' + images.length : '';
   }
 
-  function showPrev() {
+  // Update module-level refs so dialog handlers use current image set
+  showPrev = function() {
     showImage((currentIndex - 1 + images.length) % images.length);
-  }
-
-  function showNext() {
+  };
+  showNext = function() {
     showImage((currentIndex + 1) % images.length);
-  }
-
-  prevBtn.addEventListener('click', function(e) { e.stopPropagation(); showPrev(); });
-  nextBtn.addEventListener('click', function(e) { e.stopPropagation(); showNext(); });
-
-  // Keyboard navigation
-  dialog.addEventListener('keydown', function(e) {
-    if (e.key === 'ArrowLeft') { e.preventDefault(); showPrev(); }
-    else if (e.key === 'ArrowRight') { e.preventDefault(); showNext(); }
-  });
+  };
 
   // Attach click handlers to image links
   images.forEach(function(link, index) {

diff --git a/_pages/about.md b/_pages/about.md
@@ -5,6 +5,7 @@ title_en: "Efrén Rodríguez - Technical Project Manager | CERN R&D Leader"
 title_es: "Efrén Rodríguez - Director de Proyectos Técnicos | Líder I+D en el CERN"
 description: "Technical project manager who led multi-million EUR detector projects at CERN. Coordinating international teams across 3 countries, bridging hardware and software. Open to PM, engineering management, and R&D leadership roles."
 excerpt: "Technical project manager who led multi-million EUR international R&D projects at CERN. Seeking PM, engineering management, and R&D leadership roles."
+keywords: "technical project manager, R&D engineer, CERN, engineering manager, technical program manager, hardware software integration, team leadership, systems engineering"
 author_profile: true
 featured_post: /posts/2024/10/new-horizons-at-cern/
 redirect_from:
@@ -48,24 +49,24 @@ redirect_from:
   </h3>
   <div class="logo-strip__logos">
     <a href="https://home.cern" target="_blank" rel="noopener noreferrer" class="logo-strip__item" title="CERN">
-      <img src="{{ site.baseurl }}/images/logos/CERN-Logo-Social-Media/icon cern blue.webp" alt="CERN" class="logo-strip__img logo-strip__img--light" loading="lazy">
-      <img src="{{ site.baseurl }}/images/logos/CERN-Logo-Social-Media/icon cern badge.webp" alt="CERN" class="logo-strip__img logo-strip__img--dark" loading="lazy">
+      <img src="{{ site.baseurl }}/images/logos/CERN-Logo-Social-Media/icon cern blue.webp" alt="CERN" class="logo-strip__img logo-strip__img--light" loading="lazy" width="80" height="80">
+      <img src="{{ site.baseurl }}/images/logos/CERN-Logo-Social-Media/icon cern badge.webp" alt="CERN" class="logo-strip__img logo-strip__img--dark" loading="lazy" width="80" height="80">
     </a>
     <a href="https://www.nikhef.nl" target="_blank" rel="noopener noreferrer" class="logo-strip__item" title="Nikhef">
-      <img src="{{ site.baseurl }}/images/logos/Nikhef-logo-RGB-red-on-white-500x225.png" alt="Nikhef" class="logo-strip__img logo-strip__img--light" loading="lazy">
-      <img src="{{ site.baseurl }}/images/logos/Nikhef-logo-RGB-red-on-white-500x225.png" alt="Nikhef" class="logo-strip__img logo-strip__img--dark logo-strip__img--invert" loading="lazy">
+      <img src="{{ site.baseurl }}/images/logos/Nikhef-logo-RGB-red-on-white-500x225.webp" alt="Nikhef" class="logo-strip__img logo-strip__img--light" loading="lazy" width="107" height="48">
+      <img src="{{ site.baseurl }}/images/logos/Nikhef-logo-RGB-red-on-white-500x225.webp" alt="Nikhef" class="logo-strip__img logo-strip__img--dark logo-strip__img--invert" loading="lazy" width="107" height="48">
     </a>
     <a href="https://igfae.usc.es/igfae/" target="_blank" rel="noopener noreferrer" class="logo-strip__item" title="IGFAE">
-      <img src="{{ site.baseurl }}/images/logos/IGFAE_VERSIONES-03_azul escuro (7).svg" alt="IGFAE" class="logo-strip__img logo-strip__img--light" loading="lazy">
-      <img src="{{ site.baseurl }}/images/logos/IGFAE_VERSIONES-08_gris (3).svg" alt="IGFAE" class="logo-strip__img logo-strip__img--dark" loading="lazy">
+      <img src="{{ site.baseurl }}/images/logos/IGFAE_VERSIONES-03_azul escuro (7).svg" alt="IGFAE" class="logo-strip__img logo-strip__img--light" loading="lazy" width="120" height="48">
+      <img src="{{ site.baseurl }}/images/logos/IGFAE_VERSIONES-08_gris (3).svg" alt="IGFAE" class="logo-strip__img logo-strip__img--dark" loading="lazy" width="120" height="48">
     </a>
     <a href="https://www.usc.gal" target="_blank" rel="noopener noreferrer" class="logo-strip__item" title="USC">
-      <img src="{{ site.baseurl }}/images/logos/usc.png" alt="Universidade de Santiago de Compostela" class="logo-strip__img logo-strip__img--light" loading="lazy">
-      <img src="{{ site.baseurl }}/images/logos/usc-negativo-azul.png" alt="Universidade de Santiago de Compostela" class="logo-strip__img logo-strip__img--dark" loading="lazy">
+      <img src="{{ site.baseurl }}/images/logos/usc.webp" alt="Universidade de Santiago de Compostela" class="logo-strip__img logo-strip__img--light" loading="lazy" width="74" height="48">
+      <img src="{{ site.baseurl }}/images/logos/usc-negativo-azul.webp" alt="Universidade de Santiago de Compostela" class="logo-strip__img logo-strip__img--dark" loading="lazy" width="74" height="48">
     </a>
     <a href="https://lhcb.web.cern.ch" target="_blank" rel="noopener noreferrer" class="logo-strip__item" title="LHCb">
-      <img src="{{ site.baseurl }}/images/logos/lhcb-logo-0121-72_S.webp" alt="LHCb" class="logo-strip__img logo-strip__img--light" loading="lazy">
-      <img src="{{ site.baseurl }}/images/logos/lhcb-logo-0121-72_S.webp" alt="LHCb" class="logo-strip__img logo-strip__img--dark" loading="lazy">
+      <img src="{{ site.baseurl }}/images/logos/lhcb-logo-0121-72_S.webp" alt="LHCb" class="logo-strip__img logo-strip__img--light" loading="lazy" width="80" height="48">
+      <img src="{{ site.baseurl }}/images/logos/lhcb-logo-0121-72_S.webp" alt="LHCb" class="logo-strip__img logo-strip__img--dark" loading="lazy" width="80" height="48">
     </a>
   </div>
 </section>
